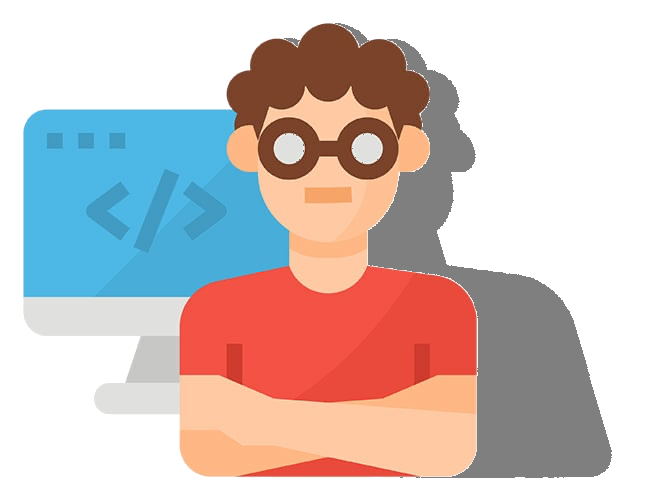
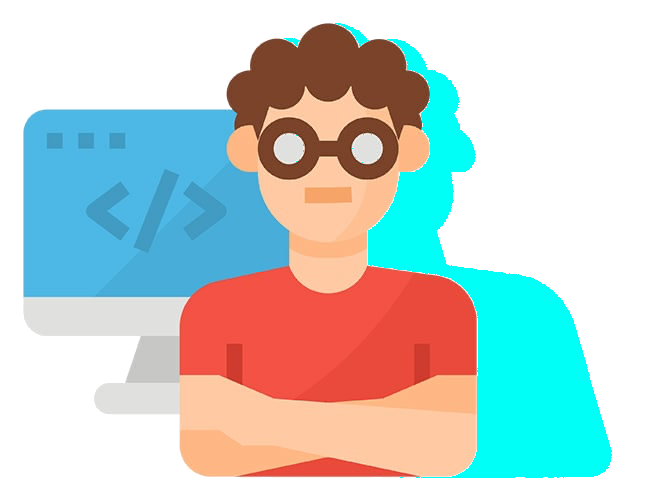
done with the costume shadow color

Changed region(s): [[0.5538, 0.09, 0.9538, 0.96], [0.5231, 0.03, 0.6154, 0.09], [0.4308, 0.06, 0.4615, 0.09]]

diff --git a/MiniProject2.py b/MiniProject2.py
@@ -3,6 +3,38 @@ import sys
 import os
 import numpy as np
 
+
+
+defaultShadowColor=[127, 127, 127]
+image = cv.imread("colorScheme.jpg")
+
+def mouseRGB(event,x,y,flags,param):
+    if event == cv.EVENT_LBUTTONDOWN: #checks mouse left button down condition
+        colorsB = image[y,x,0]
+        colorsG = image[y,x,1]
+        colorsR = image[y,x,2]
+        colors = image[y,x]
+        print("Red: ",colorsR)
+        print("Green: ",colorsG)
+        print("Blue: ",colorsB)
+        global defaultShadowColor 
+        defaultShadowColor = colors
+
+
+def chooseShadowColor():  
+    # Read an image, a window and bind the function to window
+
+    cv.namedWindow('mouseRGB')
+    cv.setMouseCallback('mouseRGB',mouseRGB)
+    #Do until esc pressed
+    while(1):
+        cv.imshow('mouseRGB',image)
+        if cv.waitKey(20) & 0xFF == 27:
+            break
+    #if esc pressed, finish.
+    cv.destroyAllWindows()
+    print("choosen color was"+str(defaultShadowColor))
+
 def isWhite(color):
     #this method takes in a list representing the color list : [b, g, r]
     #returns true if a pixel with such color can be considered white
@@ -38,7 +70,7 @@ def shear(matrix, Costumelambda, height, width, depth ):
                 place = np.array([j, i])
                 place=place.dot(shearMatrix)
                 #the default shadpw color is light grey= [127, 127, 127] 
-                whiteImage[int(place[1]), int(place[0])]=[127, 127, 127]
+                whiteImage[int(place[1]), int(place[0])]=defaultShadowColor
     cv.imshow("h"+str(Costumelambda), whiteImage)
     return whiteImage
     
@@ -69,6 +101,20 @@ def createOutput(original, shadow, Costumelambda, height, width, depth):
     return finalImage
 
 def main():
+    
+    while True:
+        try:
+            option = input("would you like to choose the color of the shadow or use the default color?\n1)use default\n2)choose my own costume shadow color\n")
+            option = int(option)
+            if option!=1 and option!=2:
+                print("\033[91mOops!  That was no valid number.  Try again...\033[0m")
+                continue
+            break
+        except ValueError:
+            print("\033[91mOops!  That was no valid number.  Try again...\033[0m")
+    if option==2:
+        print("\033[91mchoose the color by clicking on it and  press the ESC key when Ur done\033[0m")
+        chooseShadowColor()
     nameImage = input("Enter the name of the image: ") 
     image = LoadImage(nameImage)
     height, width, depth = image.shape
@@ -78,18 +124,19 @@ def main():
             costumeLambda = float(costumeLambda)
             break
         except ValueError:
-            print("Oops!  That was no valid number.  Try again...")
+            print("\033[91mOops!  That was no valid number.  Try again...\033[0m")
     #create the shadow containing image
     shearImage = shear(image, costumeLambda, height, width, depth)
 
     #create the final version of the image with shadow
     finalVersion = createOutput(image, shearImage, costumeLambda, height, width, depth)
-    print("press s so save the final output")
+    print("press \033[91ms \033[0mso save the final output")
     k = cv.waitKey(0)
     if k == ord("s"):
         cv.imwrite("finalVersionOf_"+nameImage, finalVersion)
         print("output saved as finalVersionOf_"+nameImage)
     cv.destroyAllWindows()
+
 
 if __name__ == "__main__":
     main()
